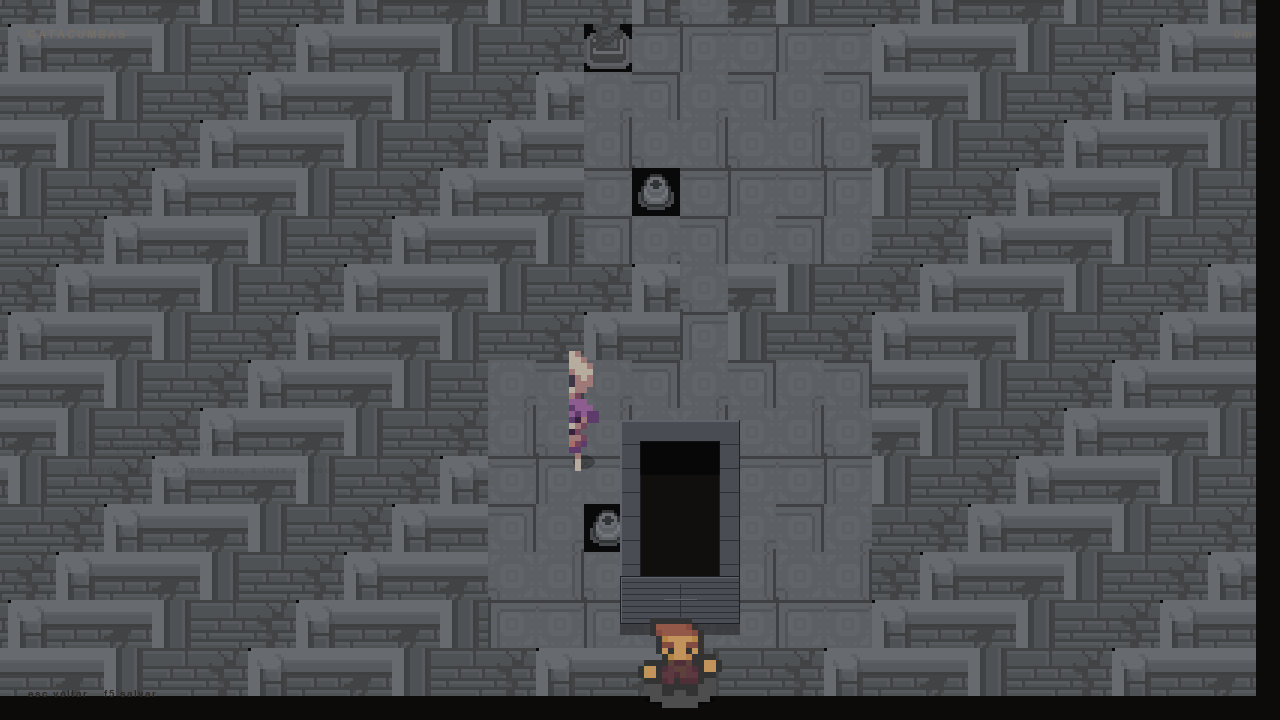
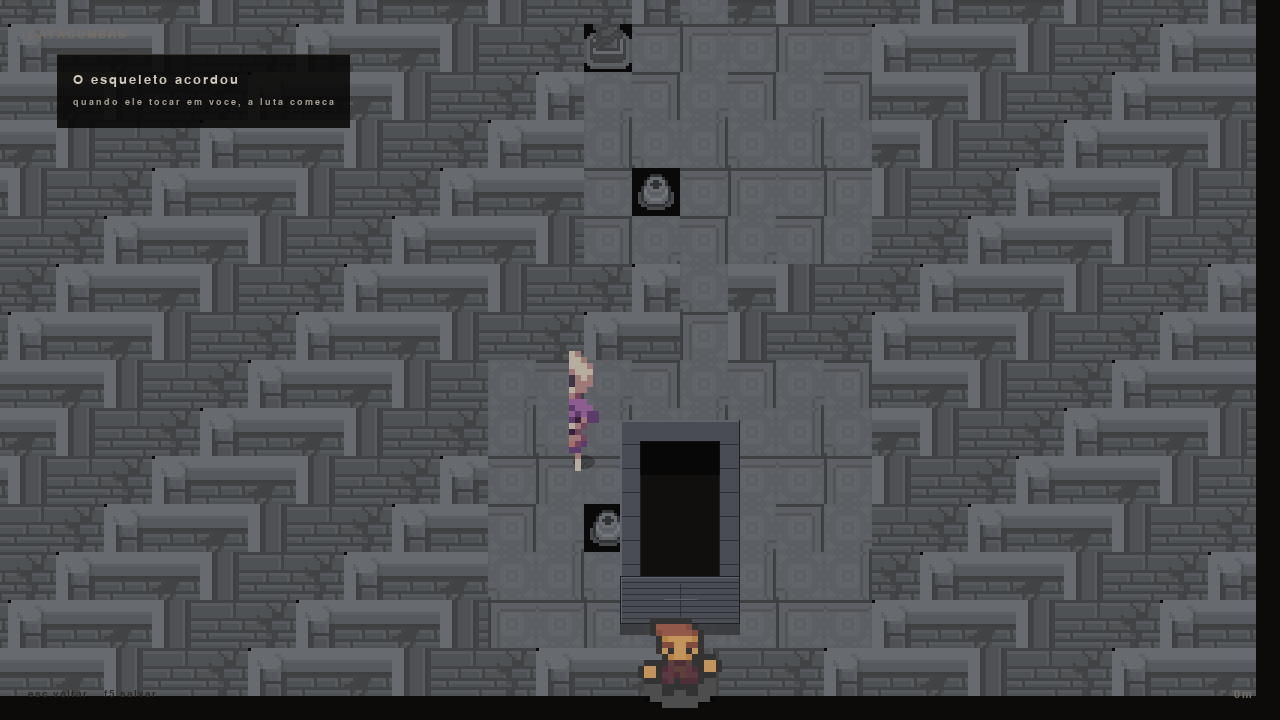
fix: make the tutorial readable
The lesson was drawn as thin grey text straight onto the dungeon floor.
Over the tileset's brick pattern the contrast was almost nil, and the
detail line below it was worse: it could not be read at all.

Three attempts, in order:
1. plain text on the floor, dim: unreadable over the tiles
2. a band across the bottom: readable, but it covered the hero, because
   the camera clamps at the map edges and that is exactly where he
   stands
3. a block in the top-left corner, which is empty and already holds the
   area name: readable and covers nobody

Measuring the box needed a scratch surface. Drawing the text and then
painting the background over it is the obvious way to learn the width,
and it buries the text under its own box.

The playtime counter also moved: it was right-aligned just below the FPS
counter, both fighting for the top-right corner.

Changed region(s): [[0.0312, 0.0611, 0.2812, 0.1833]]

diff --git a/src/dungeon_scene.py b/src/dungeon_scene.py
@@ -621,30 +621,66 @@ class DungeonScene(Scene):
         surface.blit(sprite, rect)
 
     def _desenhar_aula(self, surface: pygame.Surface) -> None:
-        """A dica da vez, no alto, sem cobrir a acao.
+        """A dica da vez, num bloco no canto superior esquerdo.
 
-        A aula some sozinha quando o jogador faz o que ela ensina. Ela
-        nunca bloqueia o controle: e um aviso, nao um painel.
+        Duas versoes antes desta falharam:
+
+        - texto solto sobre o chao, em cinza apagado: sobre os tijolos do
+          tileset o contraste era quase nulo e a linha de detalhe era
+          pior ainda
+        - uma faixa na base da tela, legivel mas POR CIMA do heroi:
+          a camera encosta nele nas bordas do mapa, que e exatamente
+          onde ele costuma estar
+
+        O canto superior esquerdo fica vazio (e onde o nome da area e o
+        rotulo da area ja aparecem), entao o bloco cabe ali sem cobrir
+        ninguem.
         """
         aula = self.tutorial.atual
         if aula is None:
             return
         w, h = self.size
-        # entra esmaecendo, para nao aparecer de uma vez
-        alpha = min(255, int(self.tutorial.tempo * 420))
-        if alpha <= 0:
+        # sobe de opacidade em vez de esmaecer: uma dica que aparece
+        # devagar e uma dica que se perde
+        entrada = min(1.0, self.tutorial.tempo / 0.35)
+        if entrada <= 0.03:
             return
-        y = int(h * 0.62)
-        cor = theme.lerp(theme.BACKGROUND, theme.TEXT_BRIGHT, alpha / 255)
-        theme.text_tracked_at(
-            surface, aula.texto, 19, (int(w * 0.06), y), cor, alpha=alpha
+
+        linhas = 2 if aula.detalhe else 1
+        altura = 30 + 22 * linhas
+        x0 = int(w * 0.045)
+        y0 = int(h * 0.075)
+
+        # MEDE antes de desenhar. A primeira versao desenhava o texto e
+        # depois pintava o fundo por cima, que e o caminho obvio para
+        # descobrir a largura: o resultado era um retangulo vazio com o
+        # texto soterrado embaixo dele.
+        # As coordenadas no rascunho sao as de TELA, porque o blit do
+        # rascunho e em (0, 0): usar posicoes relativas ao bloco
+        # deixava o texto acima do fundo.
+        rascunho = pygame.Surface((w, h), pygame.SRCALPHA)
+        texto = theme.text_tracked_at(
+            rascunho, aula.texto, 19, (x0 + 16, y0 + 26),
+            theme.lerp(theme.BACKGROUND, theme.TEXT_BRIGHT, entrada),
         )
+        largura = texto.width
         if aula.detalhe:
-            detalhe = theme.lerp(theme.BACKGROUND, theme.TEXT_DIM, alpha / 255)
-            theme.text_tracked_at(
-                surface, aula.detalhe, 14, (int(w * 0.06), y + 24),
-                detalhe, alpha=alpha,
+            detalhe = theme.text_tracked_at(
+                rascunho, aula.detalhe, 14, (x0 + 16, y0 + 48),
+                theme.lerp(theme.BACKGROUND, theme.TEXT, entrada * 0.95),
             )
+            largura = max(largura, detalhe.width)
+
+        caixa = pygame.Rect(x0, y0, max(largura, 120) + 32, altura)
+        fundo = pygame.Surface(caixa.size, pygame.SRCALPHA)
+        fundo.fill((8, 7, 6, int(222 * entrada)))
+        surface.blit(fundo, caixa)
+        theme.hairline(
+            surface, caixa.x, caixa.y, caixa.x + caixa.width, (58, 52, 44)
+        )
+
+        # agora sim, por cima do fundo
+        surface.blit(rascunho, (0, 0))
 
     def _desenhar_hud(self, surface: pygame.Surface) -> None:
         if self.fase != "livre":
@@ -654,10 +690,13 @@ class DungeonScene(Scene):
         salvar = "/".join(self.controls.labels("salvar")) or "f5"
 
         theme.text_tracked_at(surface, "CATACUMBAS", 16, (28, 34), theme.TEXT_DIM)
-        # tempo de jogo, no canto oposto: e o que o jogador olha para
-        # saber se vale a pena continuar
+
+        # o tempo de jogo fica embaixo, a direita. No topo direito mora
+        # o contador de FPS, e os dois se atropelavam ali: o tempo era
+        # desenhado logo abaixo do FPS e a leitura ficava aberta de um
+        # lado so.
         theme.text_tracked_right(
-            surface, formatar_tempo(self.tempo_jogado), 16, w - 28, 34,
+            surface, formatar_tempo(self.tempo_jogado), 16, w - 28, h - 26,
             theme.TEXT_DIM,
         )
         theme.text_tracked_at(

diff --git a/tools/preview_screens.py b/tools/preview_screens.py
@@ -106,9 +106,18 @@ def main() -> int:
     cena.moving = True
     manager.update(DT)
     manager.update(DT)
+    # a aula do esqueleto foi disparada agora, e `mostrar` zera o tempo
+    # dela: sem alguns quadros ela sai com opacidade zero e o preview
+    # mostra um texto apagado que nao existe no jogo
+    for _ in range(30):
+        manager.update(DT)
     manager.draw()
     pygame.image.save(window, ROOT / "preview_dungeon_esqueleto.png")
-    print("esqueleto guardado:", cena.esqueleto is not None)
+    print(
+        "esqueleto guardado:", cena.esqueleto is not None,
+        "| aula:", cena.tutorial.atual.texto if cena.tutorial.atual else "-",
+        "| tempo da aula:", round(cena.tutorial.tempo, 2),
+    )
 
     manager.ui_state["store"].apagar()
     pygame.quit()
